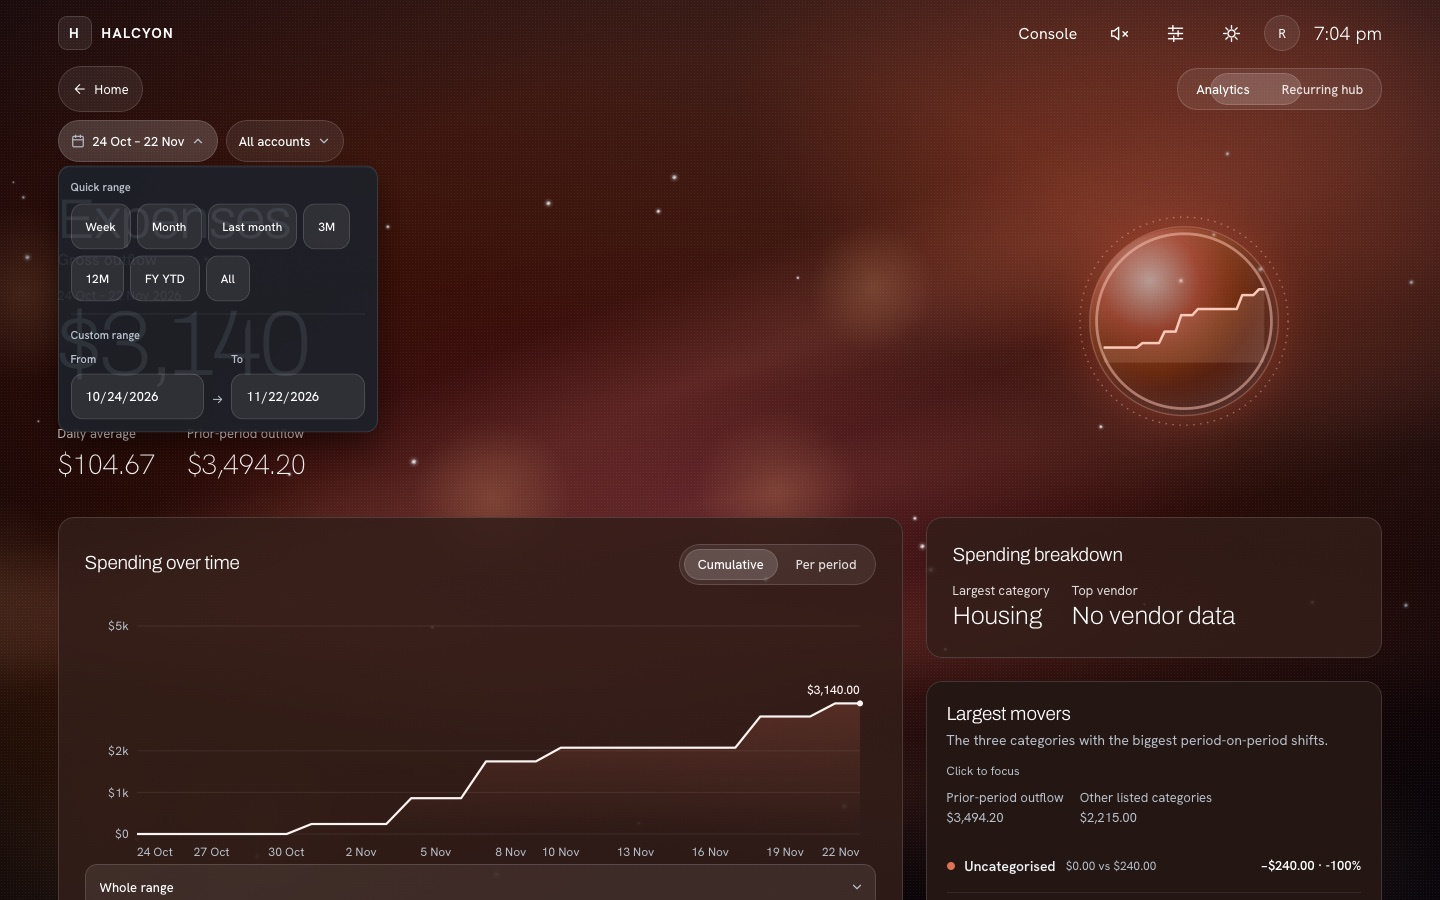
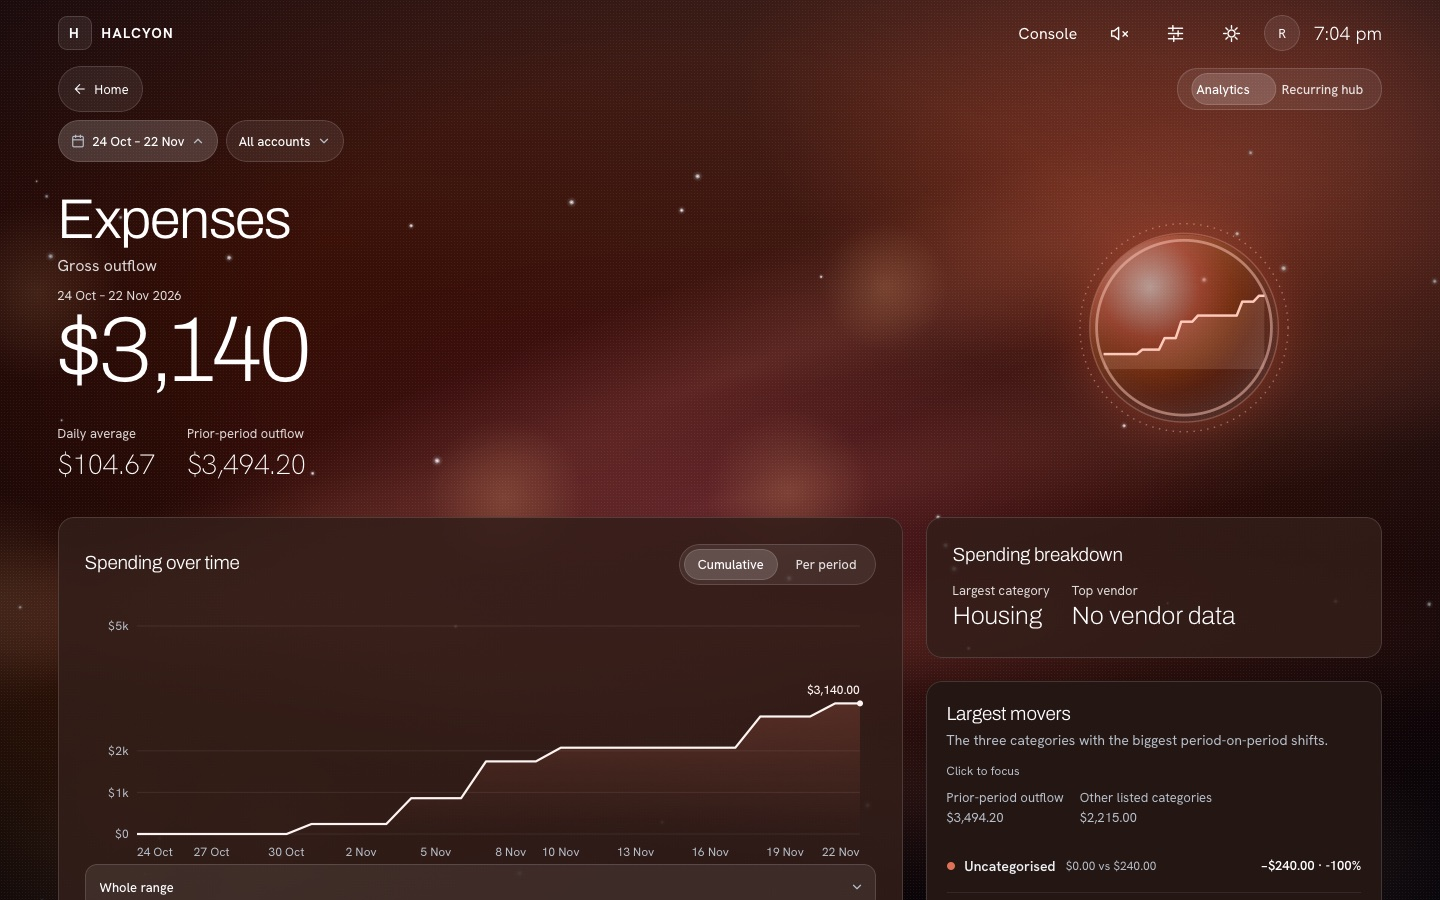
Refresh Australian Console evidence for the owner follow-ups

diff --git a/docs/design/console-phase-5-owner-fixes.md b/docs/design/console-phase-5-owner-fixes.md
@@ -1,11 +1,11 @@
 # Console Phase 5 owner fixes
 
-25 November 2026. Classic remains the first-load appearance. This PR covers the owner-review findings. Console rollout and the physical M1 Air smoothness check remain separate owner decisions.
+25–26 November 2026. This record covers the original owner review and the pre-merge follow-ups for [PR #9](https://github.com/jdomingo117/fin-app/pull/9). Classic remains the first-load appearance. Console rollout and the physical M1 Air smoothness check remain separate owner decisions.
 
 ## Fixture capture header
 
-- Branch `codex/console-phase-5-owner-fixes`, based on `main` at `e6b9b4d`. The table lists the before and after source revisions and the URL for each capture. During capture, the regression and the change under test could be in the working tree. The after revision is the commit containing them.
-- Browser and origin are Playwright WebKit at `http://127.0.0.1:5320`. Each browser context stubs Auth, reports and Edge Function replies with fictional data. The fixture intercepts application requests before they reach a Supabase listener.
+- Branch `codex/console-phase-5-owner-fixes`, based on `main` at `e6b9b4d`. The first table records the original source revisions. The after gallery was recaptured for the follow-up with the accumulated fixes. The before gallery preserves the original review evidence.
+- Browser and origin are Playwright WebKit at `http://127.0.0.1:5320`. The refreshed captures use `en-AU` and `Australia/Sydney`. Each browser context stubs Auth, reports and Edge Function replies with fictional data. The fixture intercepts application requests before they reach a Supabase listener.
 - Capture command from `app/`. Set `side` to `before` or `after` and pass the test name with `--grep` for an individual issue. Use the corresponding source revision and the regression from the fix commit when reproducing a before capture.
 
 ```sh
@@ -40,3 +40,17 @@ Each new regression was run on the before state and against the fix in Chromium 
 The expanded casing audit also checks the existing Budget and Settings screens. Budget’s commitments label now uses sentence case. Settings marks the literal deletion confirmation word as keyboard input.
 
 The initial four-shard qualification took 13m 03s on shard 2. The workflow now uses five shards and spreads the cross-screen qualification cases across all five. The signed-figure pixel test also checks the investment return inside the Accounts hub. The audio regression starts recording on the trusted click so a queued click cannot consume the recording window.
+
+## 26 November pre-merge follow-ups
+
+| Follow-up | Finding and fixture check | Refreshed evidence |
+| --- | --- | --- |
+| Start refresh and reload | The previous screenshot could run when the Home toolbar appeared while the preview still settled. The existing application code passed the stronger assertions. The test waits for full preview opacity, the in-viewport `$184,320` figure and orb, and all four recent activity buttons after the null-token round trip and after reload. It also checks that explicit sign-out makes Start available again. | [Refresh](captures/console-phase-5-owner-fixes/after/03-start-refresh.jpg) · [Reload](captures/console-phase-5-owner-fixes/after/03-start-reload.jpg) |
+| Australian locale | Desktop, Phone and WebKit inherit `en-AU` and `Australia/Sydney`. The separately launched qualification context uses the same settings. The signed-in tests assert both browser settings. | [Date picker](captures/console-phase-5-owner-fixes/after/10-date-case.jpg) · [Transaction detail](captures/console-phase-5-owner-fixes/after/10-detail-case.jpg) |
+| Date-picker surface | Console uses an opaque surface. A compositor test places white fixture text on black beneath the picker in Full effects. It requires more than 7:1 contrast while exposed and less than 1.03:1 through the panel. | [Income picker](captures/console-phase-5-owner-fixes/after/04-date-range.jpg) |
+| Copy and casing | The audit checks rendered toast and empty-state text and matches US `-ize`, `-yze`, `color` and `center` forms. Recurring copy uses “Annualised cash burn” and “No recurring series detected”. The toast eyebrow reads “Milestone reached”. | [Recurring](captures/console-phase-5-owner-fixes/after/10-recurring-case.jpg) · [Toast](captures/console-phase-5-owner-fixes/after/10-toast-case.jpg) |
+| Signed colour | Console uses neutral ink for unsigned projection text. The investment return shares the positive or negative ink used elsewhere. The rendered audit flags red or green text that lacks a signed figure. | [Projections](captures/console-phase-5-owner-fixes/after/10-projections-case.jpg) · [Investment metrics](captures/console-phase-5-owner-fixes/after/10-investment-case.jpg) |
+| Budget save | A confirmed failure leaves one alert reading “Budget changes couldn't be saved. Your edits are still here.” **Try again** submits the reviewed edit again. The fixture verifies a second request and the retained amount. An unconfirmed result still uses the existing receipt check. | [Failed save](captures/console-phase-5-owner-fixes/after/06-budget-save.jpg) |
+| Investment orb | Two or more monthly observations render value and cumulative contributions on one scale. A solid line marks value and a dashed line marks contributions. With insufficient history, the current value is centred in the ring. The regression measures at least 12% clearance on desktop and phone and checks empty holdings guidance for zero. | [Trend](captures/console-phase-5-owner-fixes/after/09-investment-hero.jpg) · [Fallback](captures/console-phase-5-owner-fixes/after/09-investment-fallback.jpg) |
+| Expense transaction count | The fictional PostgREST reply returned rows without the `Content-Range` total requested by the client. It now counts filtered rows before applying the limit. The test verifies six unfiltered rows, two merchant matches, and a zero-row empty state against the displayed counts. | [Six rows](captures/console-phase-5-owner-fixes/after/13-expense-transactions.jpg) · [Empty](captures/console-phase-5-owner-fixes/after/13-expense-empty.jpg) |
+| Layout polish | Master volume clears its focus ring by 8 px. Filter chips reserve their height plus both horizontal padding values as minimum width. A 20 px fade starts at the sticky dock edge, and the four-hub collapse test continues to check for visible text overlap. | [Volume focus](captures/console-phase-5-owner-fixes/after/08-volume-focus.jpg) · [Chips](captures/console-phase-5-owner-fixes/after/05-recurring-chips.jpg) · [Dock fade](captures/console-phase-5-owner-fixes/after/02-expanded-dock.jpg) |

diff --git a/AGENTS.md b/AGENTS.md
@@ -82,6 +82,8 @@ hand to find the transfer-linker gap.
 
 ## Recent changes
 
+- 2026-11-26 — Console owner follow-ups verify settled Home, Australian dates, opaque filters, signed colours, Budget retry, investment trends and fixture counts.
+
 - 2026-11-25 — Console Phase 5 owner fixes qualify Home zoom, hub controls, recovery states and figure readability in Chromium and WebKit.
 
 - 2026-11-24 — Console CI runs in four shards and the contrast audit grades the Budget prompt against console ink.
@@ -99,5 +101,3 @@ hand to find the transfer-linker gap.
 - 2026-11-23 — Console workflow hubs share a status dock and use separate Budget, Ledger, Ingestion and Transfers modules.
 
 - 2026-11-23 — Console Batch 4B adds compact workflow hubs and browser coverage for Budget recovery, Ledger corrections, import staging and transfer confirmation.
-
-- 2026-11-23 — Console Batch 4A gives Accounts, Income and Expenses expanded analysis hubs and adds the throttled phone proxy.
